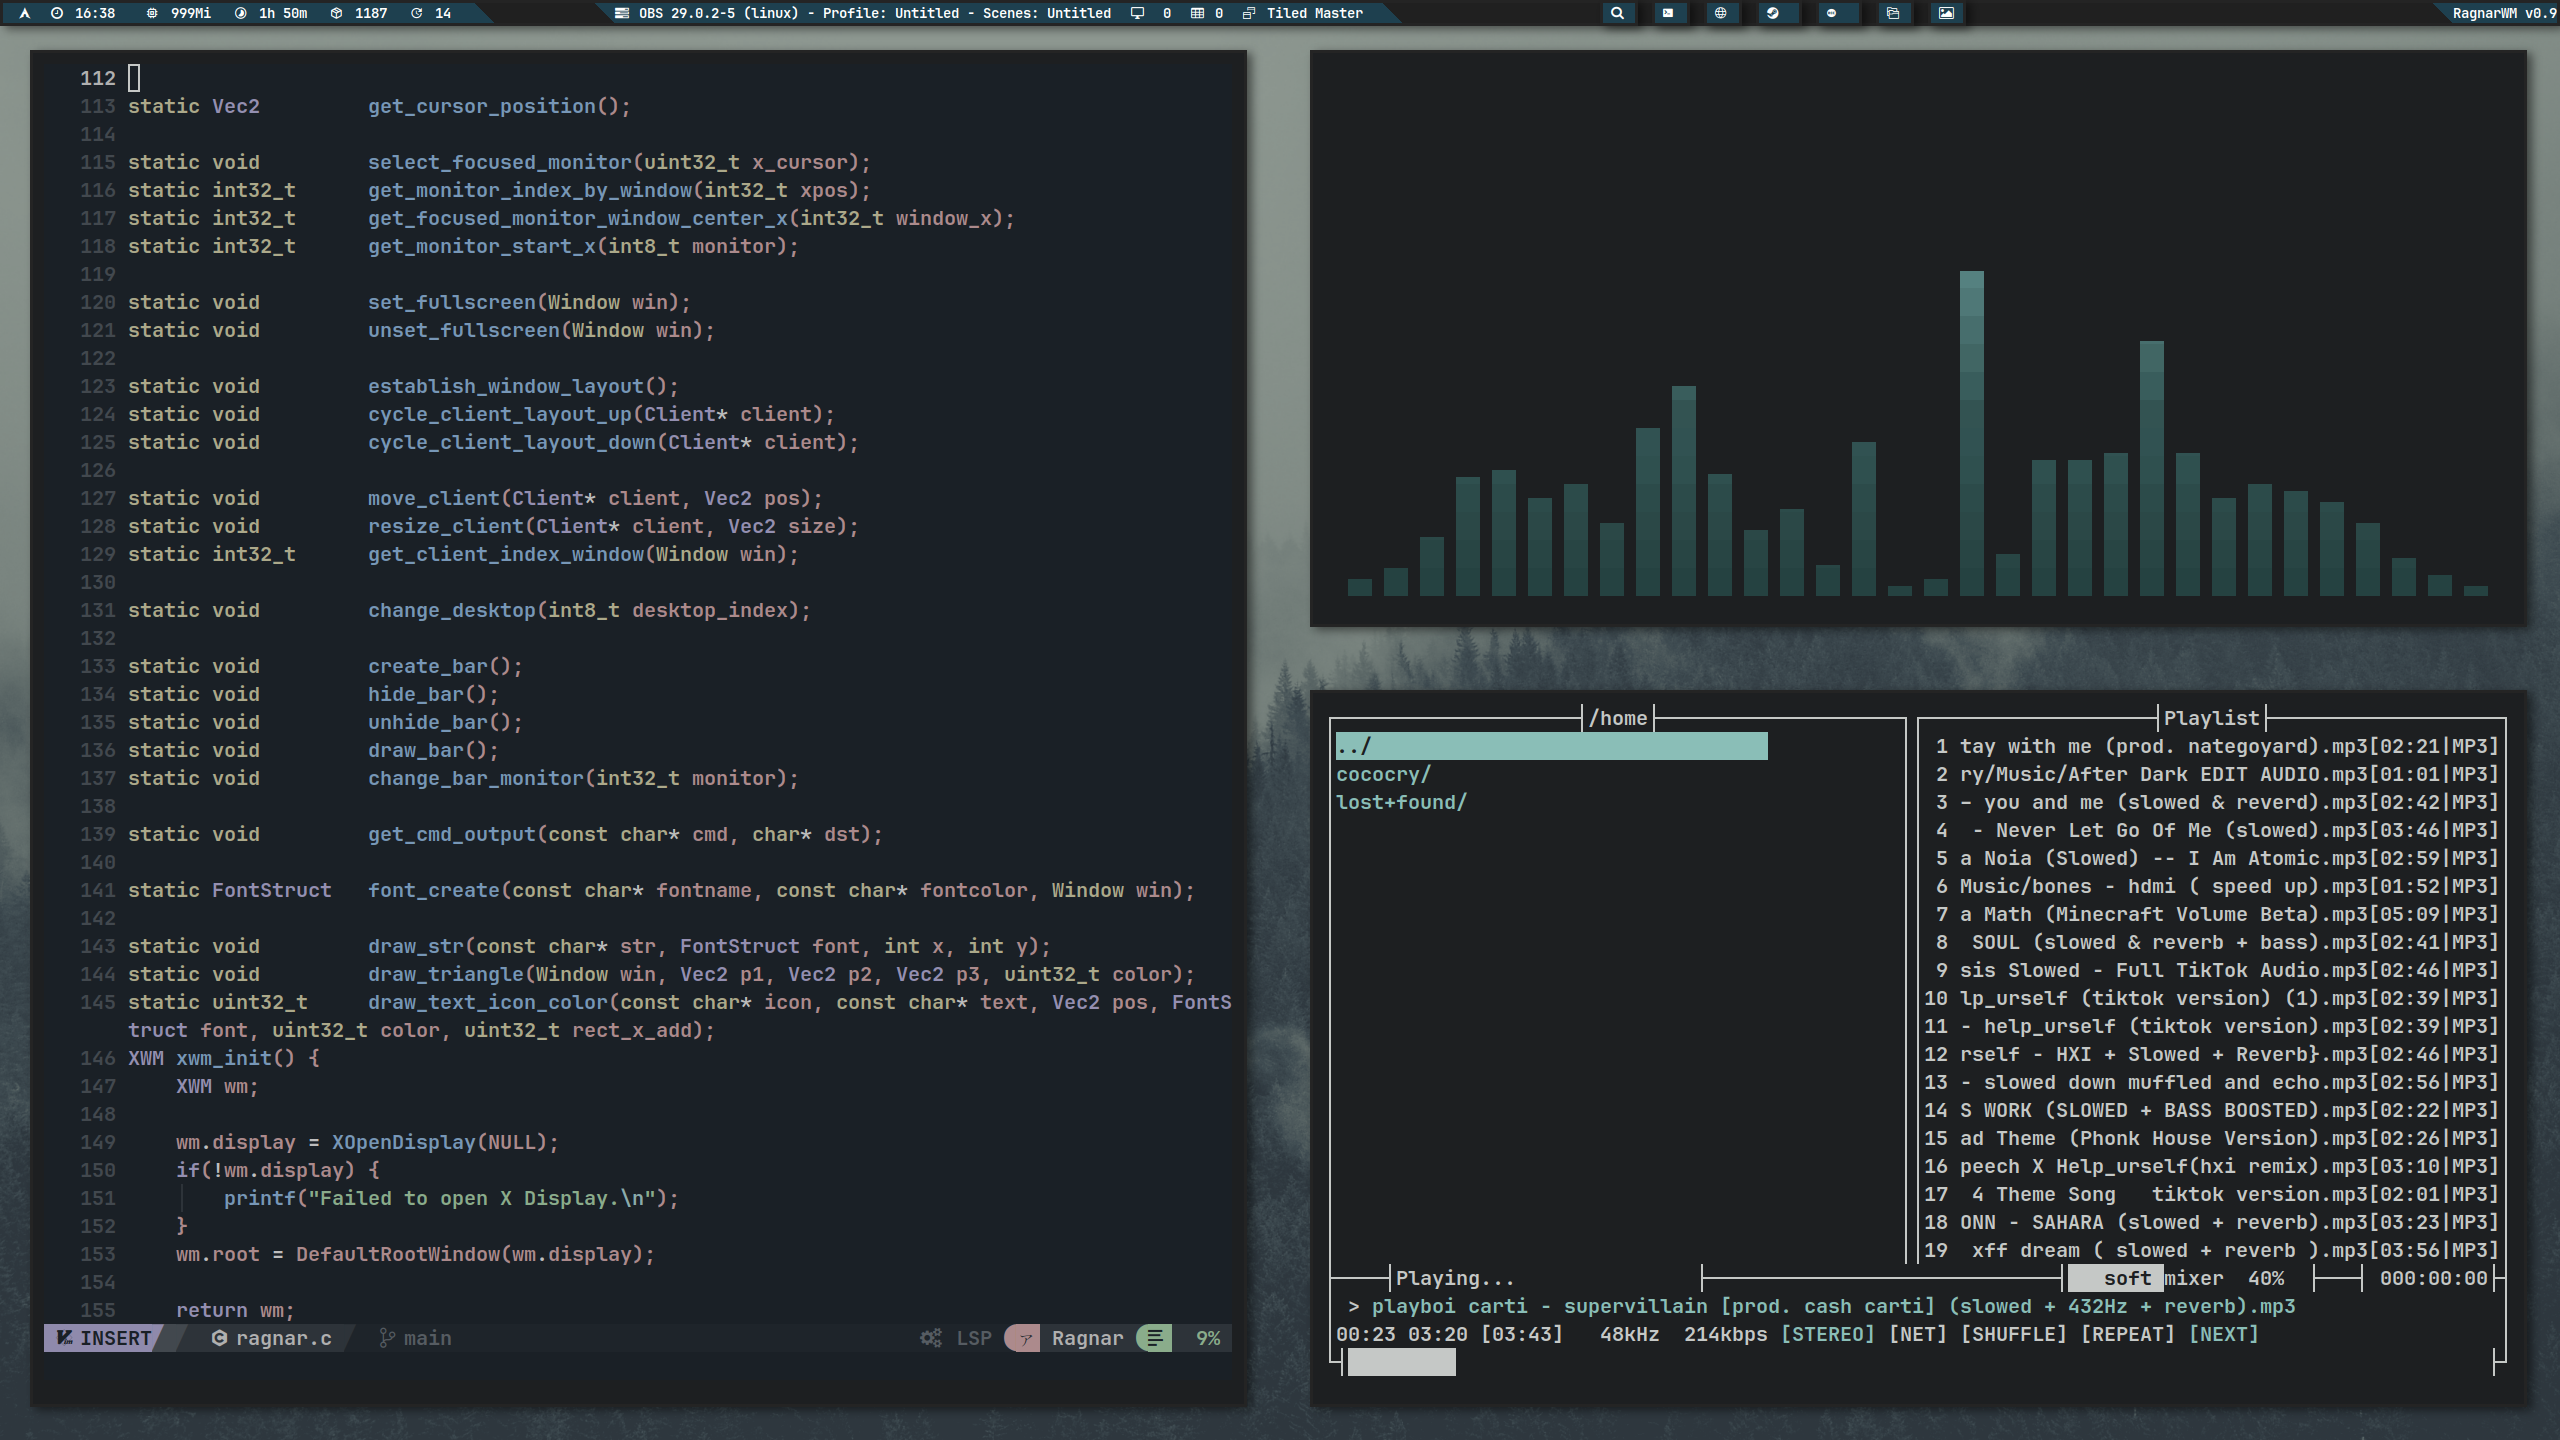
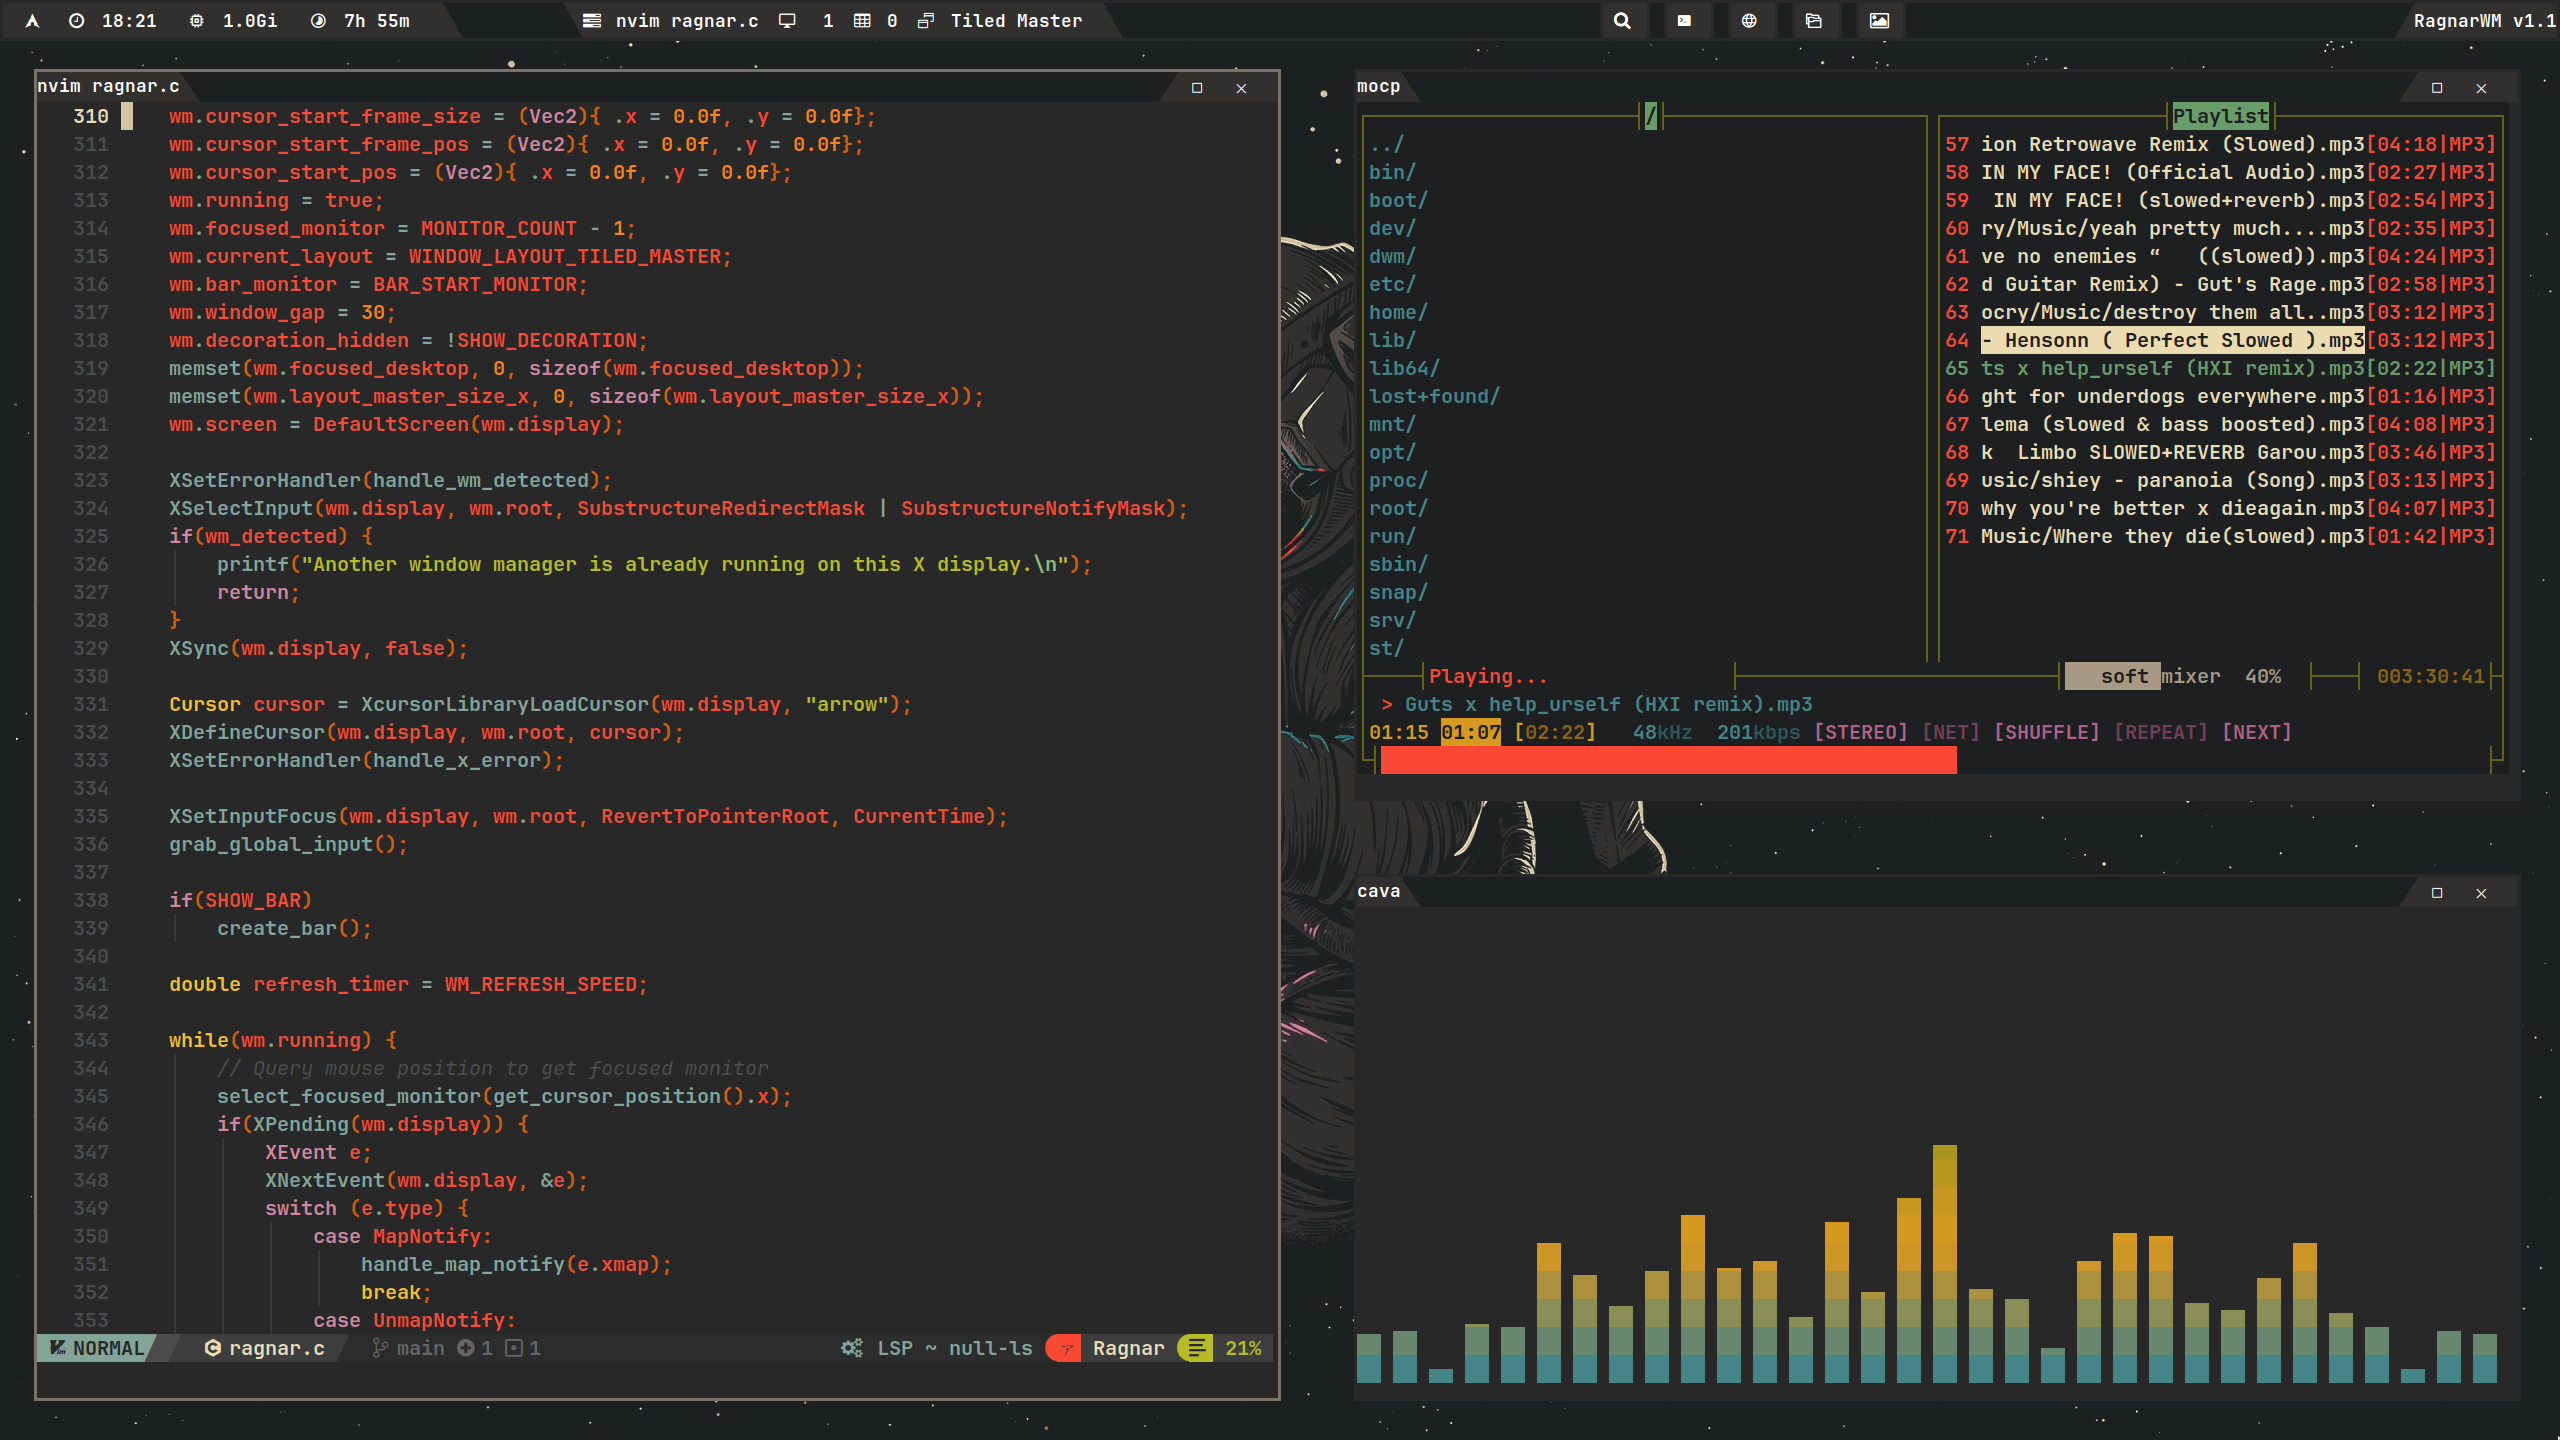
Arch install script & minor fixes

Changed region(s): [[0.0, 0.0, 1.0, 1.0]]

diff --git a/config.h b/config.h
@@ -1,7 +1,7 @@
 #pragma once
 #include <X11/X.h>
-#include <stdint.h>
 #include <X11/Xft/Xft.h>
+#include <stdint.h>
 
 // INTERNAL -- IGNORE
 typedef struct {
@@ -31,20 +31,18 @@ typedef struct {
 
 /* Commands */
 #define TERMINAL_CMD "alacritty &"
-#define WEB_BROWSER_CMD "chromium &"
+#define WEB_BROWSER_CMD "brave &"
 #define APPLICATION_LAUNCHER_CMD "dmenu_run &"
 
-#define WM_REFRESH_SPEED 1.0 // In seconds
-                             
-/* Font */
+#define WM_REFRESH_SPEED 1.0f // In seconds
+/* Font*/
 /*
- * IMPORTANT: 
+ * IMPORTANT:
  * Unicode characters often need some tweaking with positioning.
  * If you use a unicode character as an icon and it is not correctly centered,
  * just add spaces to the back or front of the icon to center it. */
-
-#define FONT "monospace:size=11"
-#define FONT_SIZE 11
+#define FONT "JetBrains Mono Nerd Font:size=14:style=bold"
+#define FONT_SIZE 14
 #define FONT_COLOR "#ffffff"
 
 /* Keybindings */
@@ -73,7 +71,7 @@ typedef struct {
 #define WINDOW_GAP_INCREASE_KEY XK_plus
 #define WINDOW_GAP_DECREASE_KEY XK_minus
 
-#define BAR_TOGGLE_KEY XK_I
+#define BAR_TOGGLE_KEY XK_I 
 #define BAR_CYCLE_MONITOR_UP_KEY XK_N
 #define BAR_CYCLE_MONITOR_DOWN_KEY XK_B
 
@@ -89,26 +87,26 @@ typedef struct {
 /* Window properties */
 #define WINDOW_BG_COLOR 0x32302f 
 #define WINDOW_BORDER_WIDTH 3 // In pixles
-#define WINDOW_BORDER_COLOR 0x242424 
-#define WINDOW_BORDER_COLOR_ACTIVE 0x454545 
+#define WINDOW_BORDER_COLOR 0x282828
+#define WINDOW_BORDER_COLOR_ACTIVE 0x7c6f64
 #define WINDOW_MIN_SIZE_Y_LAYOUT 100 // In pixels
 #define WINDOW_MAX_GAP 400 // In pixels
 
 /* Window decoration */
 #define SHOW_DECORATION true
 #define DECORATION_TITLEBAR_SIZE 30
-#define DECORATION_COLOR 0x2d2d2d // #2d2d2d 
-#define DECORATION_TITLE_COLOR 0x212121 // #212121
+#define DECORATION_COLOR 0x1d2021 
+#define DECORATION_TITLE_COLOR 0x32302f 
 #define DECORATION_TRIANGLES true
 
 #define DECORATION_SHOW_CLOSE_ICON true
-#define DECORATION_CLOSE_ICON "X"
-#define DECORATION_CLOSE_ICON_COLOR 0x212121 // #212121
+#define DECORATION_CLOSE_ICON ""
+#define DECORATION_CLOSE_ICON_COLOR 0x32302f 
 #define DECORATION_CLOSE_ICON_SIZE 50
 
 #define DECORATION_SHOW_MAXIMIZE_ICON true
-#define DECORATION_MAXIMIZE_ICON "Max"
-#define DECORATION_MAXIMIZE_ICON_COLOR 0x212121 // #212121
+#define DECORATION_MAXIMIZE_ICON " "
+#define DECORATION_MAXIMIZE_ICON_COLOR 0x32302f 
 #define DECORATION_MAXIMIZE_ICON_SIZE 50
 
 /* Bar */
@@ -129,34 +127,43 @@ typedef struct {
 #define BAR_SHOW_INFO_LABEL true
 #define BAR_SHOW_VERSION_LABEL true
 
-#define BAR_SIZE 20 // In pixels
+#define BAR_SIZE 35 // In pixels
 #define BAR_START_MONITOR 1 // Monitor on which the bar is on. (0 is most left)
-#define BAR_COLOR 0x202020
+#define BAR_REFRESH_SPEED 1.0 // In seconds
+#define BAR_COLOR 0x1d2021 
 #define BAR_LABEL_PADDING 100 // In pixels
-
-#define BAR_MAIN_LABEL_COLOR 0x1e404f
-#define BAR_INFO_LABEL_COLOR 0x1e404f
-#define BAR_BUTTON_LABEL_COLOR 0x1e404f
-#define BAR_VERSION_LABEL_COLOR 0x1e404f
                             
-#define BAR_INFO_PROGRAM_ICON "Program: "
-#define BAR_INFO_MONITOR_ICON "Monitor: "
-#define BAR_INFO_DESKTOP_ICON "Desktop: "
-#define BAR_INFO_WINDOW_LAYOUT_ICON "Layout: "
+#define BAR_MAIN_LABEL_COLOR 0x32302f
+#define BAR_INFO_LABEL_COLOR 0x32302f
+#define BAR_BUTTON_LABEL_COLOR 0x32302f 
+#define BAR_VERSION_LABEL_COLOR 0x32302f 
 
-#define BAR_SLICES_COUNT 1
-#define BAR_BUTTON_COUNT 3
+#define BAR_INFO_PROGRAM_ICON ""
+#define BAR_INFO_MONITOR_ICON ""
+#define BAR_INFO_DESKTOP_ICON ""
+#define BAR_INFO_WINDOW_LAYOUT_ICON ""
+
+#define BAR_SLICES_COUNT 4
+#define BAR_BUTTON_COUNT 5
 
 static BarCommand  BarCommands[BAR_SLICES_COUNT] = 
 { 
-    (BarCommand){.cmd = "echo \"$(date +%R)  \"", .refresh_time = 1.0f},
+    (BarCommand){.cmd = "echo \"  \"", .refresh_time = 300.0f},
+    (BarCommand){.cmd = "echo \"  $(date +%R) \"", .refresh_time = 1.0f},
+    (BarCommand){.cmd = "ram-ragbar", .refresh_time = 1.0f,},
+    //(BarCommand){.cmd = "kernel-ragbar", .refresh_time = 300.0f},
+    (BarCommand){.cmd = "uptime-ragbar", .refresh_time = 1.0f},
+    //(BarCommand){.cmd = "packages-ragbar", .refresh_time = 60.0f},
+    //(BarCommand){.cmd = "updates-ragbar", .refresh_time = 120.0f},
 };
 
 static BarButton BarButtons[BAR_BUTTON_COUNT] =
 {
-    (BarButton){.cmd = APPLICATION_LAUNCHER_CMD, .icon = "Search"},
-    (BarButton){.cmd = TERMINAL_CMD, .icon = "Terminal"},
-    (BarButton){.cmd = WEB_BROWSER_CMD, .icon = "Browser"},
+    (BarButton){.cmd = APPLICATION_LAUNCHER_CMD, .icon = " "},
+    (BarButton){.cmd = TERMINAL_CMD, .icon = " "},
+    (BarButton){.cmd = WEB_BROWSER_CMD, .icon = " "},
+    (BarButton){.cmd = "qtfm &", .icon = " "},
+    (BarButton){.cmd = "nitrogen &", .icon = " "},
 };
 
 /* Monitors */

diff --git a/ragnar.c b/ragnar.c
@@ -491,6 +491,7 @@ void handle_motion_notify(XMotionEvent e) {
         // Remove the client from the layout
         if(client->in_layout) {
             client->in_layout = false;
+            client->layout_y_size_offset = 0;
             establish_window_layout();
         }
     }
@@ -1060,7 +1061,7 @@ void establish_window_layout() {
             XSetWindowBorderWidth(wm.display, master->frame, WINDOW_BORDER_WIDTH);
             return;
         }
-            
+        
         // set master
         move_client(master, (Vec2){get_monitor_start_x(wm.focused_monitor) + wm.window_gap, wm.window_gap + offset_bar_master});
         resize_client(master, (Vec2){
